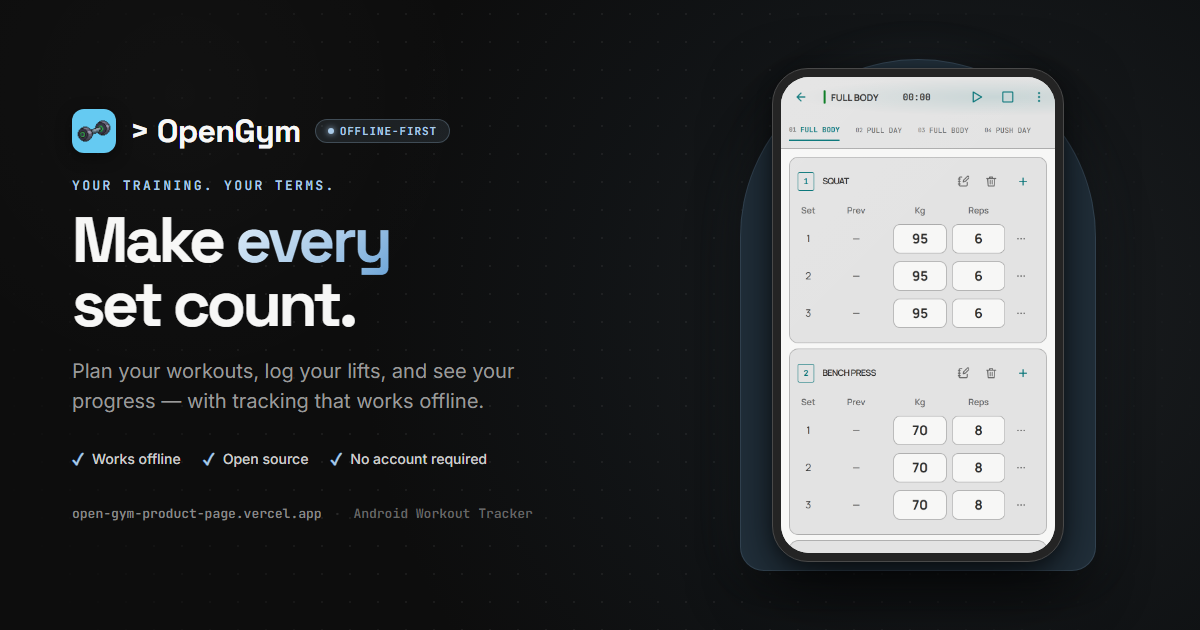
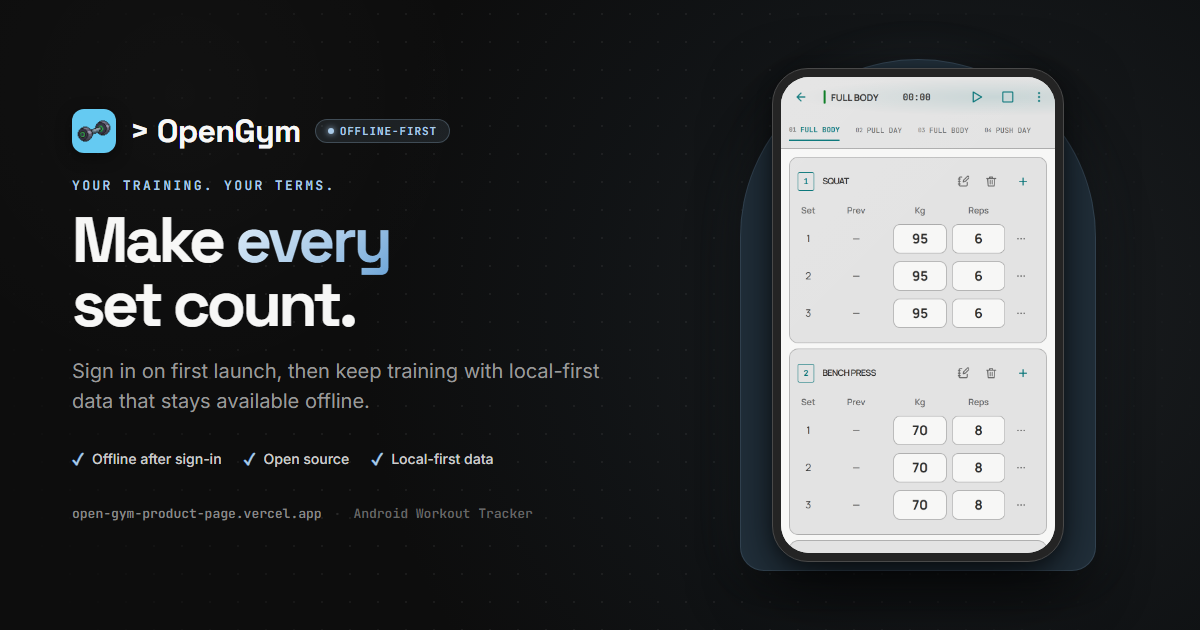
fix: align account and offline copy

Changed region(s): [[0.0617, 0.573, 0.4933, 0.6635], [0.0617, 0.7238, 0.4317, 0.754]]

diff --git a/index.html b/index.html
@@ -4,7 +4,7 @@
     <meta charset="UTF-8" />
     <link rel="icon" type="image/svg+xml" href="/favicon.svg" />
     <meta name="viewport" content="width=device-width, initial-scale=1.0" />
-    <meta name="description" content="Plan your workouts, log your lifts, and see your progress — with tracking that works offline." />
+    <meta name="description" content="Sign in on first launch, then plan workouts, log lifts, and review local-first training data offline." />
     <meta name="theme-color" content="#0D0D0D" />
 
     <!-- Open Graph / Facebook / WhatsApp -->
@@ -12,21 +12,21 @@
     <meta property="og:url" content="https://open-gym-product-page.vercel.app/" />
     <meta property="og:site_name" content="OpenGym" />
     <meta property="og:title" content="> OpenGym — Make every set count." />
-    <meta property="og:description" content="Plan your workouts, log your lifts, and see your progress — with tracking that works offline." />
+    <meta property="og:description" content="Sign in on first launch, then plan workouts, log lifts, and review local-first training data offline." />
     <meta property="og:image" content="https://open-gym-product-page.vercel.app/og-image.png" />
     <meta property="og:image:secure_url" content="https://open-gym-product-page.vercel.app/og-image.png" />
     <meta property="og:image:type" content="image/png" />
     <meta property="og:image:width" content="1200" />
     <meta property="og:image:height" content="630" />
-    <meta property="og:image:alt" content="OpenGym — Make every set count. Offline-first workout tracking for Android." />
+    <meta property="og:image:alt" content="OpenGym — local-first workout tracking for Android, available offline after sign-in." />
 
     <!-- Twitter / X -->
     <meta name="twitter:card" content="summary_large_image" />
     <meta name="twitter:url" content="https://open-gym-product-page.vercel.app/" />
     <meta name="twitter:title" content="> OpenGym — Make every set count." />
-    <meta name="twitter:description" content="Plan your workouts, log your lifts, and see your progress — with tracking that works offline." />
+    <meta name="twitter:description" content="Sign in on first launch, then plan workouts, log lifts, and review local-first training data offline." />
     <meta name="twitter:image" content="https://open-gym-product-page.vercel.app/og-image.png" />
-    <meta name="twitter:image:alt" content="OpenGym — Make every set count. Offline-first workout tracking for Android." />
+    <meta name="twitter:image:alt" content="OpenGym — local-first workout tracking for Android, available offline after sign-in." />
 
     <!-- Fonts: Space Grotesk (display) + Inter (body) + JetBrains Mono (data) -->
     <title>> OpenGym — Make every set count.</title>

diff --git a/src/components/OfflineSection.tsx b/src/components/OfflineSection.tsx
@@ -42,7 +42,11 @@ export function OfflineSection() {
               Your training doesn’t need a signal.
             </motion.h2>
             <motion.p className="offline-body" variants={itemVariants}>
-              Your workout data lives on your device first. Create an account to sync across devices, or export your training history anytime. No connection required to train.
+              OpenGym requires account sign-in on first launch. After that,
+              your plans, sessions, and history live on your device first and
+              stay usable without a connection. Supported workout data can
+              sync when you are online, and JSON export gives you a separate
+              backup you control.
             </motion.p>
 
             <motion.div className="feature-pills" variants={containerVariants}>
@@ -51,13 +55,13 @@ export function OfflineSection() {
                   <rect x="5" y="2" width="14" height="20" rx="2" ry="2"></rect>
                   <line x1="12" y1="18" x2="12.01" y2="18"></line>
                 </svg>
-                <span>Offline storage</span>
+                <span>Local-first storage</span>
               </motion.div>
               <motion.div className="feature-pill" variants={itemVariants}>
                 <svg viewBox="0 0 24 24" fill="none" stroke="currentColor" strokeWidth="2" strokeLinecap="round" strokeLinejoin="round">
                   <path d="M21.5 2v6h-6M21.34 15.57a10 10 0 1 1-.59-9.27l-5.32 5.32"></path>
                 </svg>
-                <span>Account sync</span>
+                <span>Offline after sign-in</span>
               </motion.div>
               <motion.div className="feature-pill" variants={itemVariants}>
                 <svg viewBox="0 0 24 24" fill="none" stroke="currentColor" strokeWidth="2" strokeLinecap="round" strokeLinejoin="round">
@@ -65,7 +69,7 @@ export function OfflineSection() {
                   <polyline points="7 10 12 15 17 10"></polyline>
                   <line x1="12" y1="15" x2="12" y2="3"></line>
                 </svg>
-                <span>Data export</span>
+                <span>JSON backup</span>
               </motion.div>
             </motion.div>
           </motion.div>
@@ -103,7 +107,7 @@ export function OfflineSection() {
                 <svg viewBox="0 0 24 24" fill="none" stroke="currentColor" strokeWidth="2" strokeLinecap="round" strokeLinejoin="round">
                   <path d="M18 10h-1.26A8 8 0 1 0 9 20h9a5 5 0 0 0 0-10z"></path>
                 </svg>
-                <span>Syncs when connected</span>
+                <span>Saved on this device</span>
               </div>
             </div>
           </motion.div>

diff --git a/src/config.ts b/src/config.ts
@@ -22,7 +22,7 @@ export const config = {
   meta: {
     title: '> OpenGym — Make every set count.',
     description:
-      'Plan your workouts, log your lifts, and see your progress — with tracking that works offline.',
+      'Sign in on first launch, then plan workouts, log lifts, and review local-first training data offline.',
     ogImage: 'https://open-gym-product-page.vercel.app/og-image.png',
     themeColor: '#0D0D0D',
   },
@@ -132,11 +132,11 @@ export const config = {
   faq: [
     {
       q: 'Does the app work without an internet connection?',
-      a: 'Yes. All workout data is stored locally on your device. You can create plans, log workouts, and review your history entirely offline. When you sign in, your data syncs across devices automatically.',
+      a: 'A connection is required to sign in on first launch. After that, your workout data is stored locally first, so you can create plans, log workouts, and review your history without a connection.',
     },
     {
       q: 'How does syncing work?',
-      a: 'When you create an account and sign in, OpenGym syncs your workout plans and sessions across devices using a last-write-wins approach. If you make changes offline, they sync automatically when connectivity returns.',
+      a: 'When you are online, OpenGym can sync supported account data—including your workout splits, plans, and sessions—in the background. Offline changes stay on your device and can sync after connectivity returns. App settings are not included in cloud sync; use a JSON export when you want a separate, user-controlled backup.',
     },
     {
       q: 'Can I create my own workout plans?',

diff --git a/src/components/Hero.tsx b/src/components/Hero.tsx
@@ -60,8 +60,8 @@ export function Hero() {
             set count.
           </motion.h1>
           <motion.p className="hero-subheading" variants={itemFadeUp}>
-            Plan your workouts, log your lifts, and see your progress—with
-            tracking that works offline.
+            Sign in on first launch, then plan, log, and review your training
+            with local-first data that stays available offline.
           </motion.p>
           <motion.div className="hero-actions" variants={itemFadeUp}>
             <a
@@ -77,9 +77,9 @@ export function Hero() {
             </a>
           </motion.div>
           <motion.div className="hero-details" variants={itemFadeUp}>
-            <span>Works offline</span>
+            <span>Offline after sign-in</span>
             <span>Open source</span>
-            <span>No account required</span>
+            <span>Local-first data</span>
           </motion.div>
         </motion.div>
 

diff --git a/scripts/generate_og_image.py b/scripts/generate_og_image.py
@@ -316,13 +316,13 @@ body {{
       </h1>
 
       <p class="subheading">
-        Plan your workouts, log your lifts, and see your progress — with tracking that works offline.
+        Sign in on first launch, then keep training with local-first data that stays available offline.
       </p>
 
       <div class="details-row">
         <div class="detail-item">
           <span class="detail-check">✓</span>
-          <span>Works offline</span>
+          <span>Offline after sign-in</span>
         </div>
         <div class="detail-item">
           <span class="detail-check">✓</span>
@@ -330,7 +330,7 @@ body {{
         </div>
         <div class="detail-item">
           <span class="detail-check">✓</span>
-          <span>No account required</span>
+          <span>Local-first data</span>
         </div>
       </div>
 
